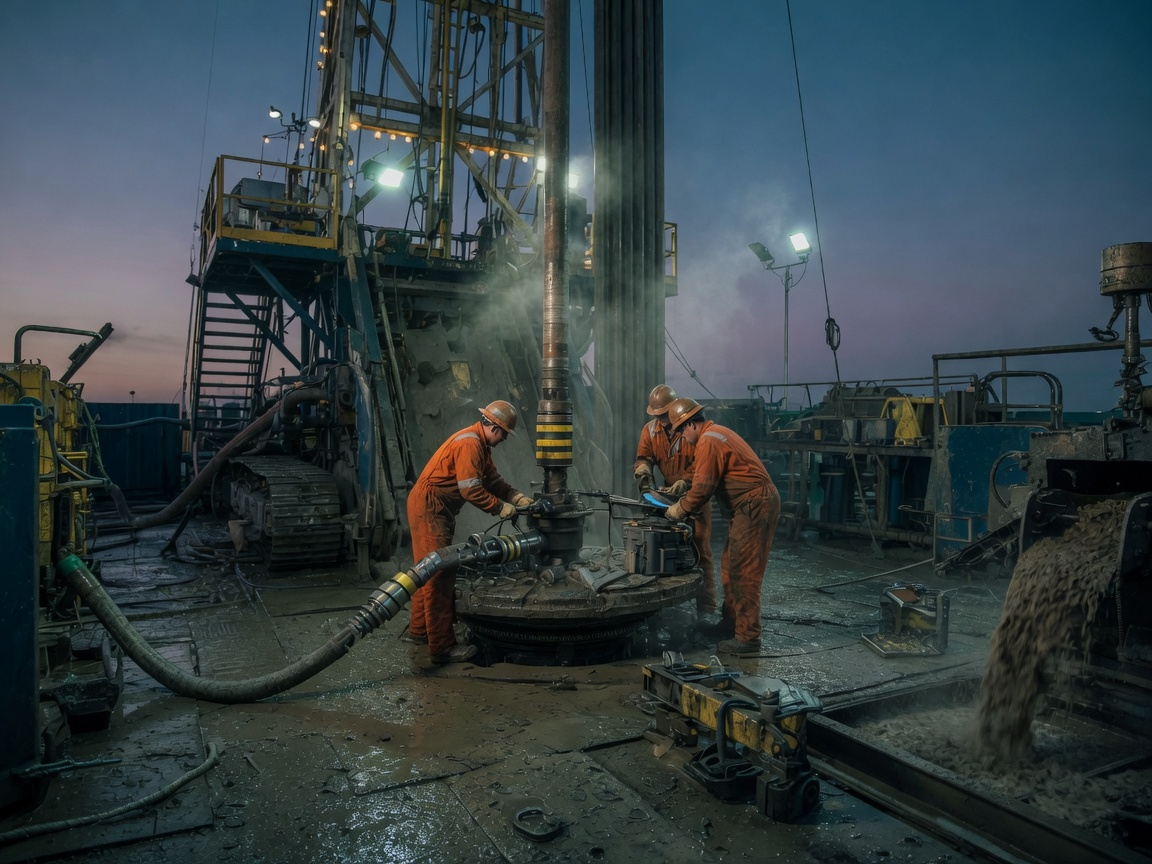
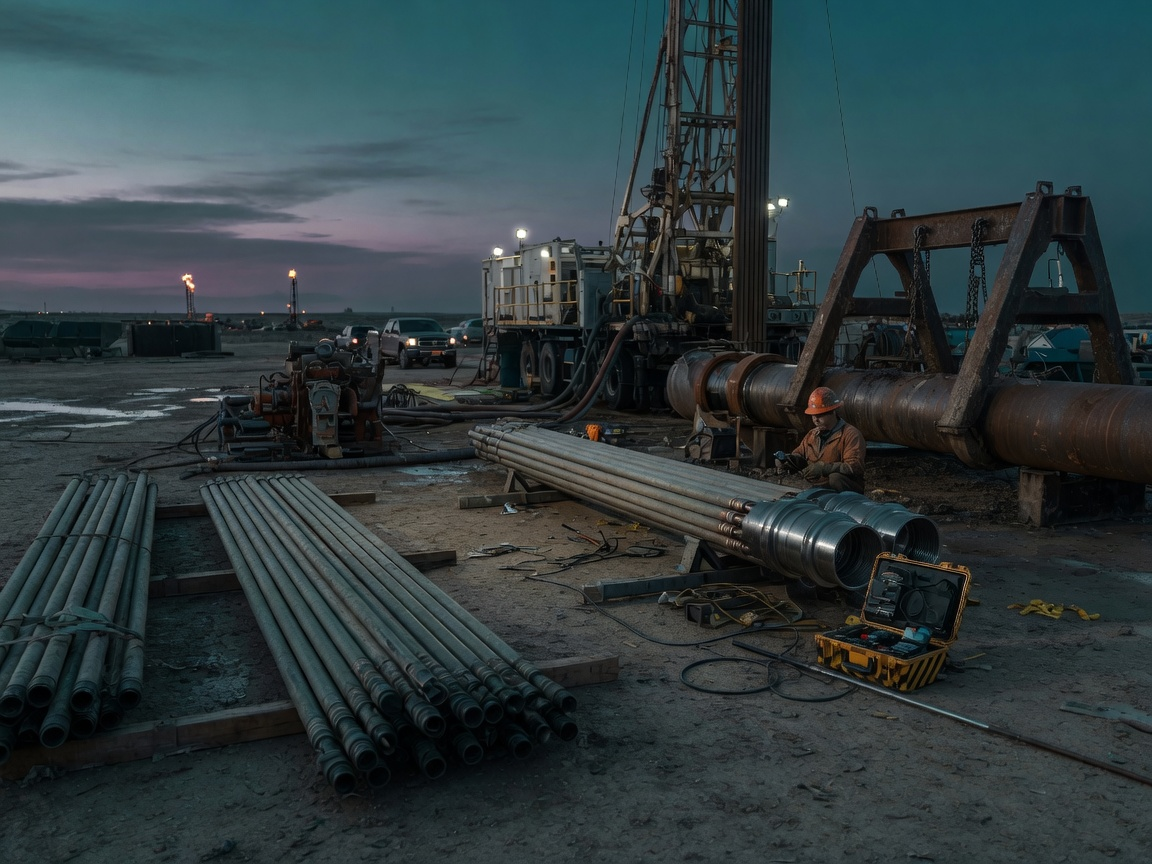
Restore module 5 cover to original magnetic-interference photo style.

diff --git a/src/data/moduleCovers.ts b/src/data/moduleCovers.ts
@@ -1,5 +1,5 @@
 /** Cover images for module selection cards (in /public/modules). */
-const COVER_VERSION = 'v5'; // bump when replacing assets to bust CDN/browser cache
+const COVER_VERSION = 'v6'; // bump when replacing assets to bust CDN/browser cache
 
 export const moduleCovers: Record<string, string> = {
   'section-1': '/modules/section-1.jpg',
